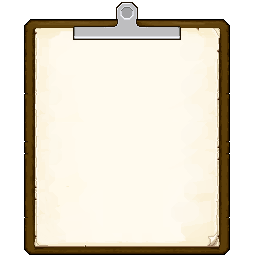
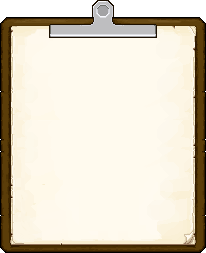
to-do list implemented well

diff --git a/js/script.js b/js/script.js
@@ -9,6 +9,8 @@ const pomoButton = document.getElementById("pomo-button");
 const decreaseBtn = document.getElementById("pomo-decrease");
 const increaseBtn = document.getElementById("pomo-increase");
 const nxtPageBtn = document.querySelectorAll(".nxt-page");
+const pageOne = document.getElementById("page-1")
+const pageTwo = document.getElementById("page-2")
 
 let counter = 0;
 let workMinutes = 25; // Duración de trabajo
@@ -21,6 +23,7 @@ let remainingTime;
 let isRunning = false; // Para saber si el temporizador está en ejecución
 let isBreak = false; // Para saber si estamos en tiempo de descanso
 let comment;
+let pageDisplay = true
 
 buttons.forEach(button => {
     button.addEventListener("click", () => {
@@ -28,6 +31,29 @@ buttons.forEach(button => {
         tenSeg.play();
     });
 });
+
+
+
+nxtPageBtn.forEach(nxtPageBtn =>{
+    nxtPageBtn.addEventListener("click", () =>{
+        if(pageDisplay || !pageDisplay){
+            pageDisplay = !pageDisplay
+            if(pageDisplay == true){
+                pageOne.style.display = "block"
+                pageTwo.style.display = "none"
+            }else if (pageDisplay == false){
+                pageOne.style.display = "none"
+                pageTwo.style.display = "block"
+            }
+        }
+    })
+})
+
+
+
+
+//Cambio de Página
+
 
 nxtPageBtn.forEach(nxtPageBtn => {
     const bgOriginal = nxtPageBtn.style.backgroundImage;
@@ -47,19 +73,24 @@ const updateDisplay = () => {
     if(workMinutes <= 30){
         breakMinutes = 5;
         comment = "Buen tiempo de estudio."
+        nxtTimePreview.style.color = "#00AA00"
         
     }else if(workMinutes <= 50){
         breakMinutes = 10;
         comment = "Hay que esforzarnos un poco."
+        nxtTimePreview.style.color = "#0000AA"
     }else if(workMinutes <= 75){
         breakMinutes = 15;
         comment = "Vamos a ponernos serios."
+        nxtTimePreview.style.color = "#B4684D"
     }else if(workMinutes <= 90){
         breakMinutes = 25;
         comment = "!Hay que aprobar esas materias!"
+        nxtTimePreview.style.color = "#443A3B"
     }else{
         breakMinutes = 30;
-        comment = '¿Qué es :"vida social"?'
+        comment = '¿Qué es "vida social"?'
+        nxtTimePreview.style.color = "#AA0000"
     }
     nxtTimePreview.innerHTML = `Tiempo de Descanso <b>${breakMinutes} ${breakMinutes > 1 ? "Minutos" : "Minuto"}</b> <br> <u>${comment}</u>`
 };
@@ -94,7 +125,7 @@ updateDisplay();
 
 const counterFinalized = () => {
     pomoButton.innerText = "⏵"; // Cambia el botón a play cuando termina
-    pomoCounter.style.color = isBreak ? "#971607" : "#00B300"; // Verde para descanso, rojo para trabajo
+    pomoCounter.style.color = isBreak ? "#AA0000" : "#00AA00"; // Verde para descanso, rojo para trabajo
     pomoCounter.innerHTML = `<h2>${isBreak ? "Finalizado" : "Descanso"}</h2>`;
     isRunning = false;
     increaseBtn.disabled = false;

diff --git a/index.html b/index.html
@@ -13,6 +13,7 @@
     <!-- Timer Page -->
     <div class="desk-item">
         <div id="pomo-book">
+
             <div class="pomo-page" id="page-1">
                 <section class="pomo container">
                     <h1>Pomodoro</h1>
@@ -30,16 +31,17 @@
             <!-- Tasks Page -->
             <div class="pomo-page" id="page-2">
                 <section class="pomo container">
-                    <h1>Pendientes</h1>
-                    <p>Lorem Ipsum Dolor Sit...</p>
-                </section>
-                <section class="container">
+                    <h1>To-Do List</h1>
+                    <div id="pomo-buttons-container">
+                        <button id="pomo-decrease" aria-label="decrease timer">↓</button>
+                        <button id="pomo-button" aria-label="start timer">⏵</button>
+                        <button id="pomo-increase" aria-label="increase timer">↑</button>
+                    </div>
                     <button class="nxt-page" aria-label="next page"></button>
-                    <iframe src="https://open.spotify.com/embed/playlist/0vvXsWCC9xrXsKd4FyS8kM?utm_source=generator&theme=0" 
-                        width="100%" height="352px" frameborder="0" 
-                        allow="autoplay; clipboard-write; encrypted-media; fullscreen; picture-in-picture"></iframe>
+                    <span style="display: flex; flex-direction: column; justify-content: center; align-items: center;" id = "break-preview"></span>
                 </section>
             </div>
+
         </div>
     </div>
     <script src="./js/script.js" defer></script>

diff --git a/css/style.css b/css/style.css
@@ -51,7 +51,6 @@ h1, h2, button {
     filter: drop-shadow(0 4px 16px var(--color-shadow));
 }
 .pomo-page {
-    
     background-image: url("../assets/img/bg.png");
     background-position: center;
     background-repeat: no-repeat;
@@ -63,7 +62,17 @@ h1, h2, button {
     box-sizing: content-box;
     filter: drop-shadow(0 4px 12px);
 
-} 
+}
+#page-2{
+    display: none;
+    background-image: url("../assets/img/clipboard.png");
+    aspect-ratio: 206 / 253;
+}
+#page-2 .pomo.container{
+    justify-content: space-around;
+    margin-top: 6rem;
+}
+
 .container{
     display: flex;
     align-items: center;
@@ -77,10 +86,6 @@ h1, h2, button {
     align-items: center;
     justify-content:center;
     height: 100%;
-}
-#page-2{
-    justify-content: calc(32vh) !important;
-    display: none;
 }
 .nxt-page{
     background-image: url("../assets/img/nxt-page.png");
